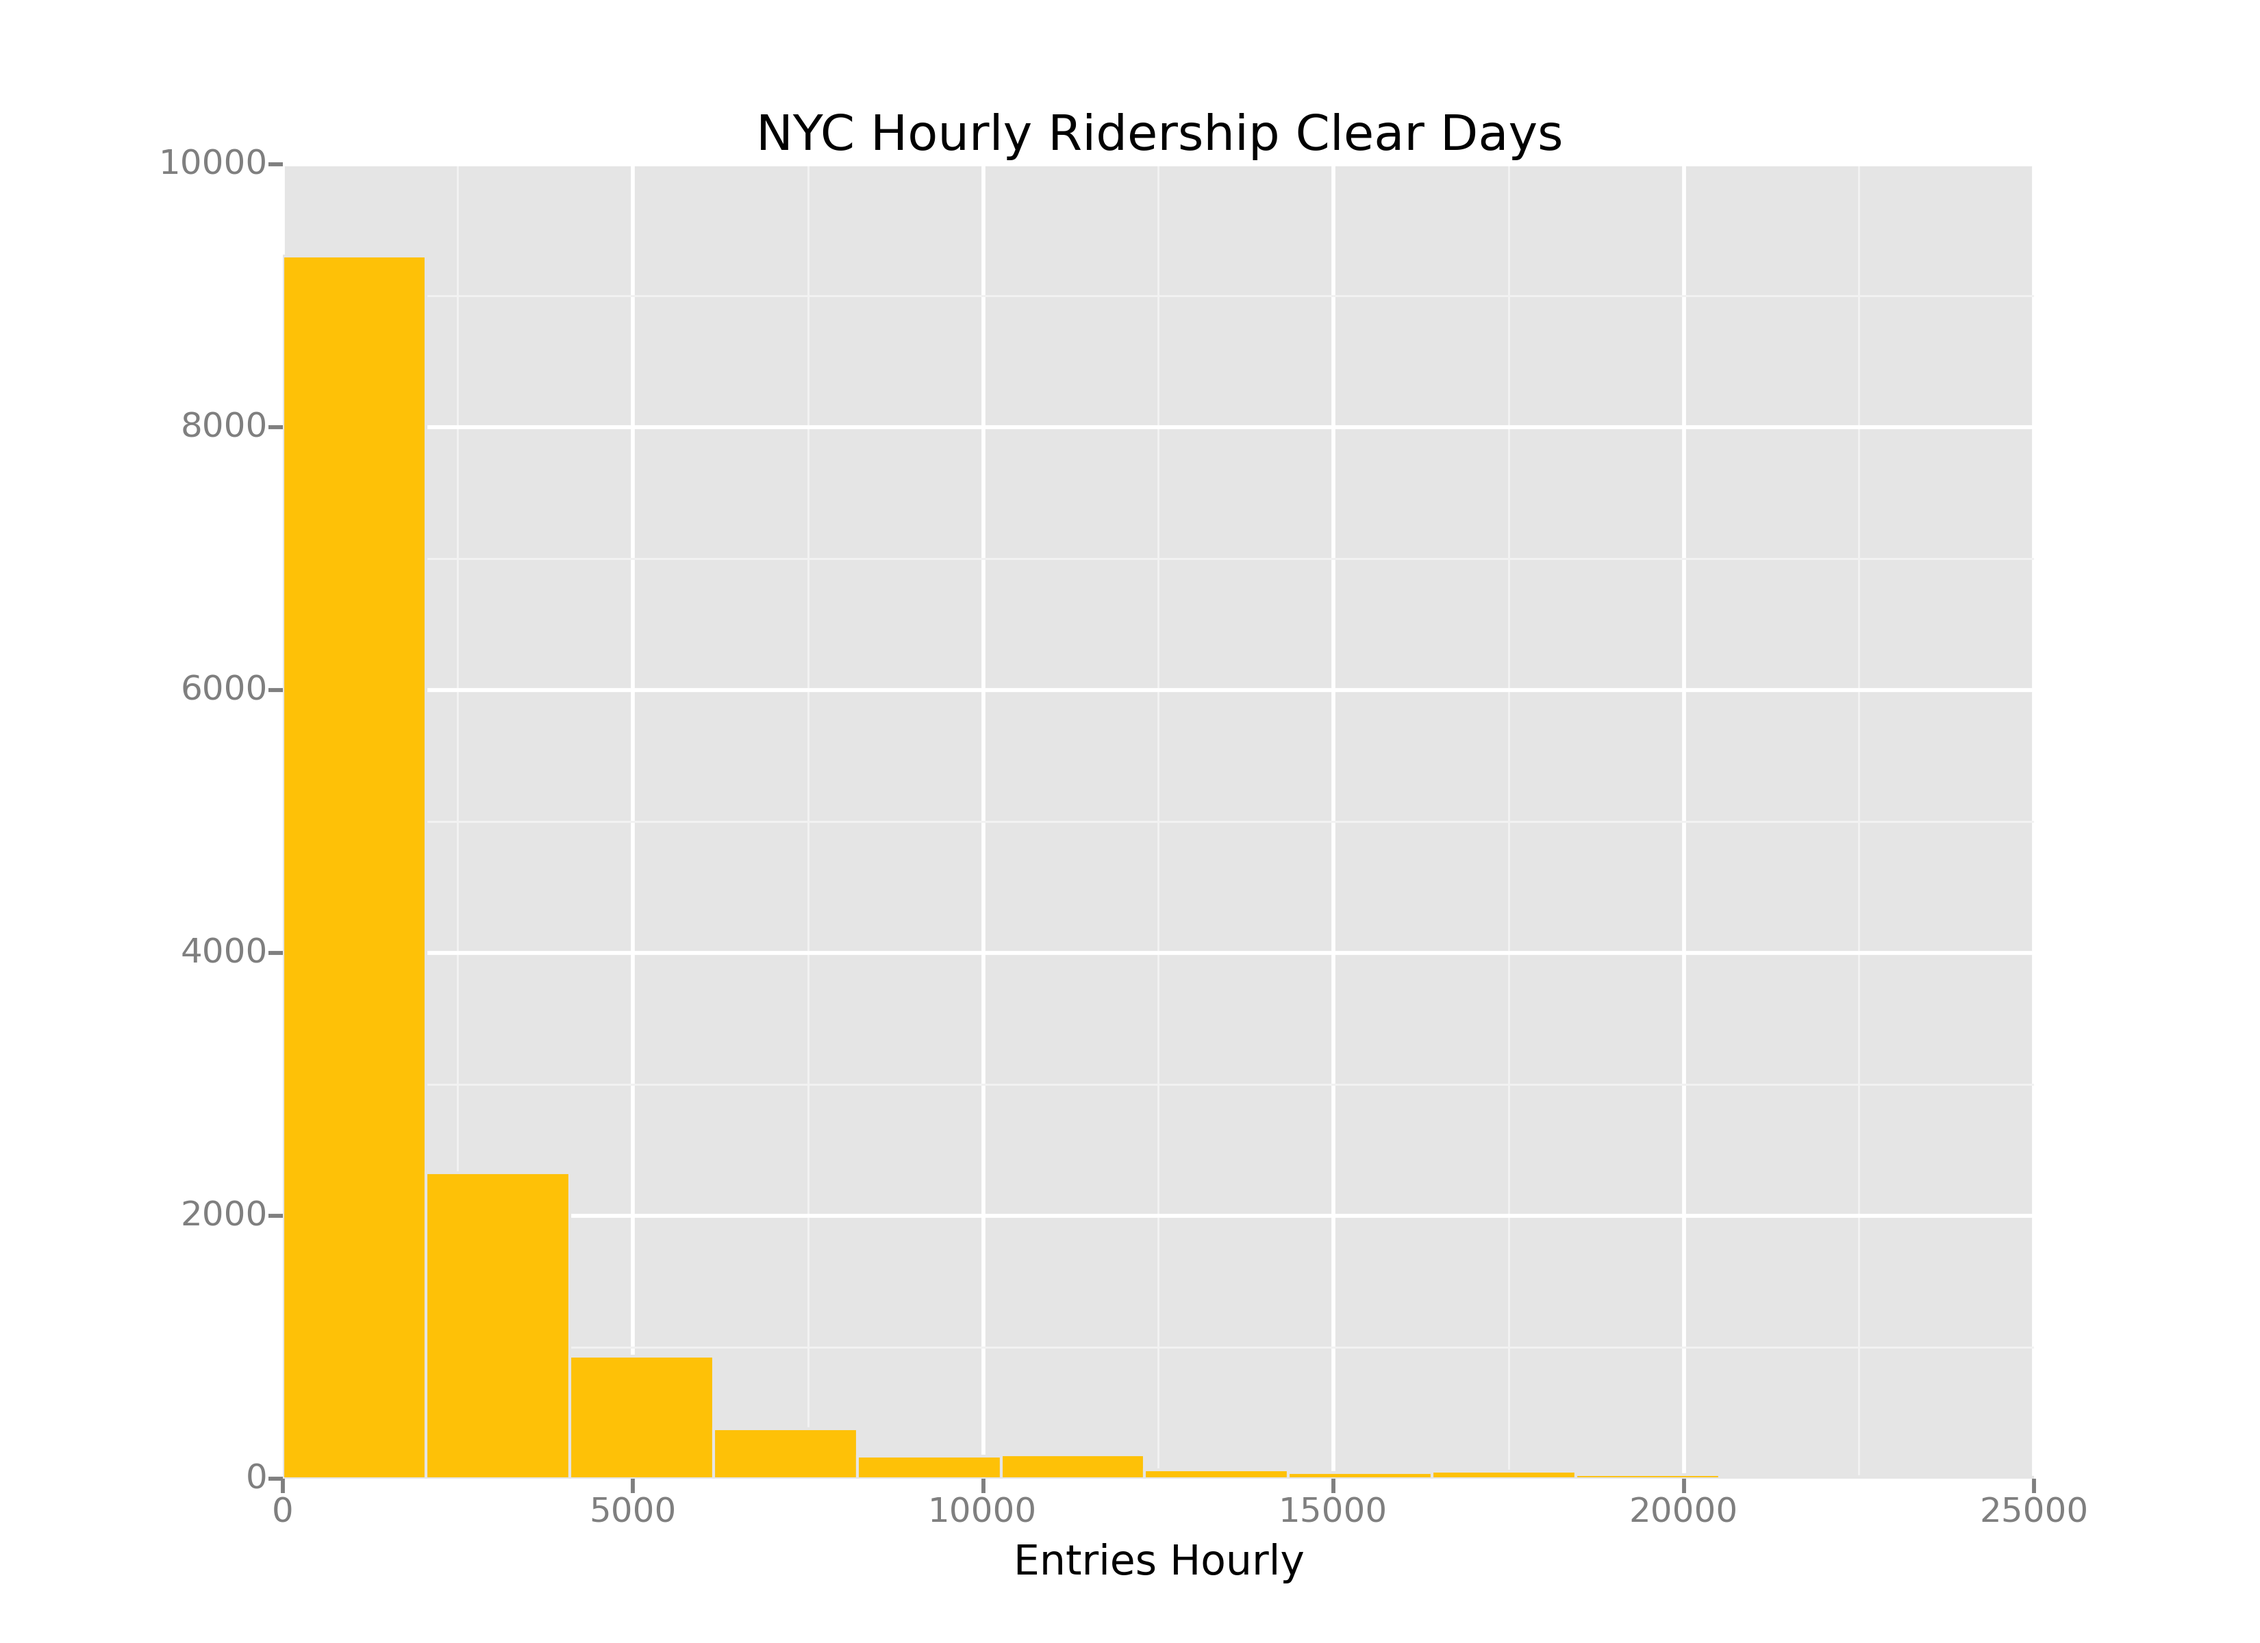
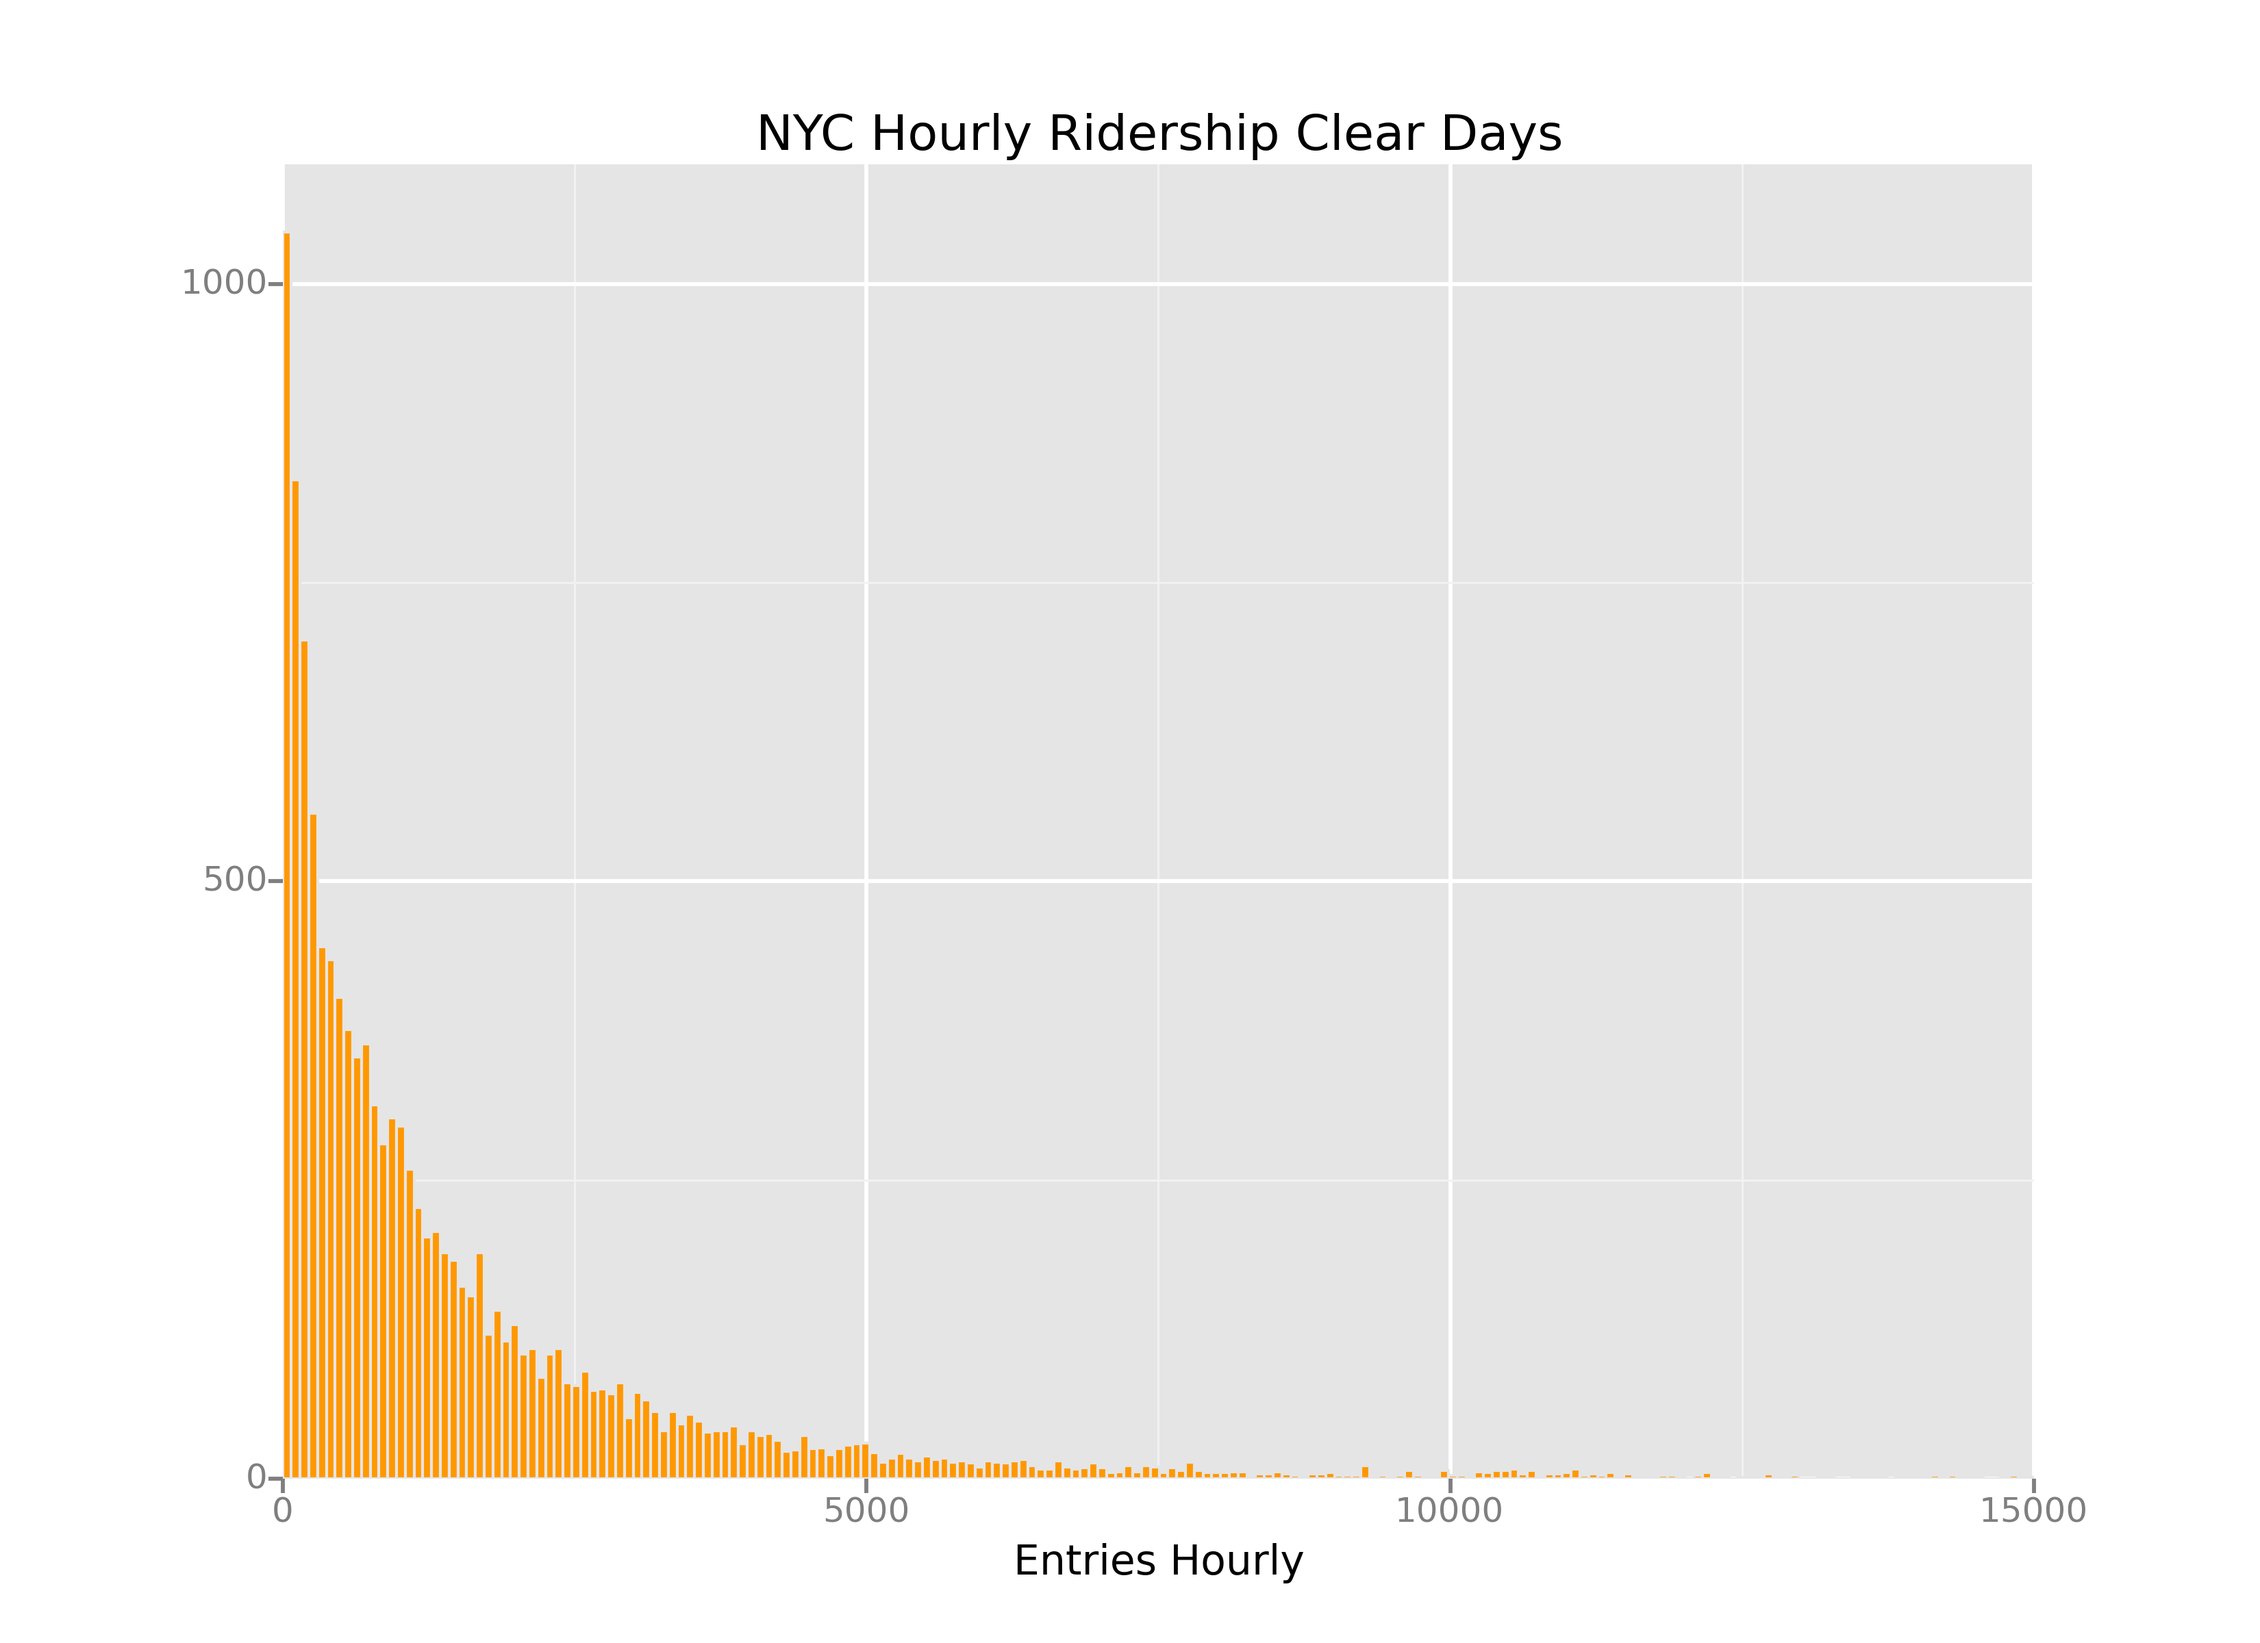
Updated Histograms _-- Binwidth _-- Scale _-- Used Dates

Changed region(s): [[0.0936, 0.1562, 0.6555, 0.9375], [0.7179, 0.9062, 0.7803, 0.9375], [0.0936, 0.0938, 0.1248, 0.125]]

diff --git a/p1_graphs.py b/p1_graphs.py
@@ -43,8 +43,12 @@ def plot_data_histogram(df, filename, xvar):
     #g = ggplot(df, aes(x=xvar)) + geom_histogram(fill='#2196F3', binwidth=2000) + ggtitle('NYC Hourly Ridership Rainy Days') + xlab('Entries Hourly')
 
     # clear days
-    g = ggplot(df, aes(x=xvar)) + geom_histogram(fill='#2196F3', binwidth=100) + ggtitle('NYC Hourly Ridership Rain Days') \
-        + xlab('Entries Hourly') + scale_y_continuous(limits=[0, 2000], labels='thousand', breaks='1 thousand') + scale_x_continuous(limits=[0, 12000])
+    g = ggplot(df, aes(x=xvar)) + geom_histogram(fill='#FF9800', binwidth=75) + ggtitle('NYC Hourly Ridership Clear Days') \
+        + xlab('Entries Hourly') + scale_y_continuous(limits=[0, 1100]) + scale_x_continuous(limits=[0, 15000])
+
+#colors
+    #FF9800 or
+    #2196F3 bl
 
 
     ggsave(g, filename)
@@ -73,16 +77,17 @@ clear_days = data[data['rain'] == 0]
 
 # Allowed dates to even out Histogram comparison
 allowed_clear = ['05-01-11',
-                 '05-02-11',
+                 '05-07-11',
                  '05-03-11',
                  '05-05-11',
                  '05-06-11',
-                 '05-09-11',
-                 '05-10-11',
-                 '05-11-11',
-                 '05-12-11',
-                 '05-13-11']
+                 '05-22-11',
+                 '05-28-11',
+                 '05-24-11',
+                 '05-30-11',
+                 '05-18-11']
 
+#print Series(clear_days.DATEn.ravel()).unique()
 clear_days = clear_days[clear_days.DATEn.isin(allowed_clear)]
 
 # drop NaN / Reset index for histogram call
@@ -100,10 +105,10 @@ clear_days = clear_days.dropna().reset_index(drop=True)
 ############
 
 # rain days hist save
-plot_data_histogram(rain_days, 'rain_days_blue.png', 'ENTRIESn_hourly')
+#plot_data_histogram(rain_days, 'rain_days_blue.png', 'ENTRIESn_hourly')
 
 # clear days hist save
-#plot_data_histogram(clear_days, 'clear_days_or.png', 'ENTRIESn_hourly')
+plot_data_histogram(clear_days, 'clear_days_or.png', 'ENTRIESn_hourly')
 
 #data = pandas.melt(data, id_vars=['datetime', 'ENTRIESn_hourly', 'rain'])
 
